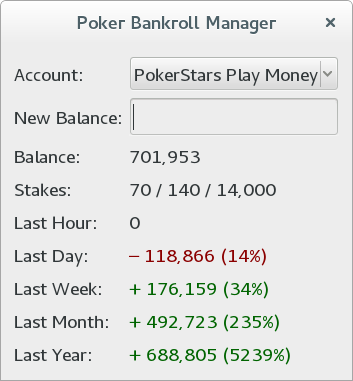
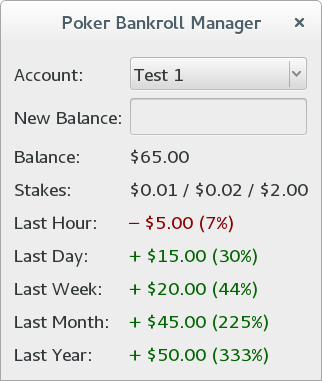
state.json example, features in readme

diff --git a/main.py b/main.py
@@ -51,7 +51,7 @@ class BankrollManager(QWidget):
 		self.add_label('Last Year')
 
 	def add_label(self, text):
-		self.widget[text] = elem = QLabel('–', self)
+		self.widget[text] = elem = QLabel(self)
 		self.add_element(text, elem)
 
 	def add_combo(self, text):
@@ -59,7 +59,7 @@ class BankrollManager(QWidget):
 		self.add_element(text, elem)
 
 	def add_edit(self, text):
-		self.widget[text] = elem = QLineEdit('', self)
+		self.widget[text] = elem = QLineEdit(self)
 		self.add_element(text, elem)
 
 	def add_element(self, text, elem):

diff --git a/README.md b/README.md
@@ -1,6 +1,17 @@
 # Poker Bankroll Manager
 ![screenshot](screenshot.png)
 
+## Dependencies
+* [PyQt5](https://www.riverbankcomputing.com/software/pyqt/intro)
+
+## Features
+* Configure multiple accounts via `state.json`
+* Custom decimal place precision per account
+* Custom currency unit per account
+* Calculation of maximum buy-in based on total balance
+* View blance change for various periods
+* Saves balance history in CSV file
+
 ## Acknowledgements
 * [Chip Icon](https://icons8.com/web-app/16428/chip) by *Icons8*
 
